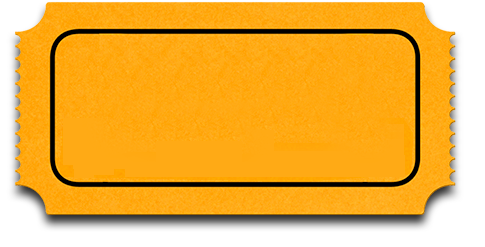
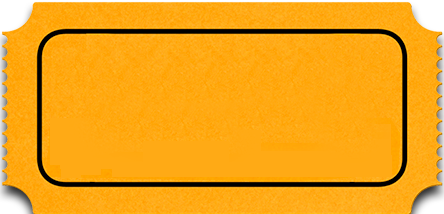
created styles for Card comp

diff --git a/src/components/Friends/Friends.js b/src/components/Friends/Friends.js
@@ -14,7 +14,7 @@ class Friends extends Component {
   }
 
   componentDidMount() {
-    axios.get(`/api/friendspost/recent/${this.props.user_id}`).then(res => {
+    axios.get(`/api/friendspost/${this.props.user_id}`).then(res => {
       this.setState({
         friends: res.data
       });
@@ -28,21 +28,19 @@ class Friends extends Component {
           <h3>Friends</h3>
           <div className="card">
             {this.state.friends.map(friend => (
-              <Link to={`/blog/${friend.post_id}`}>
-                <Card
-                  className="card"
-                  name={friend.name}
-                  post_id={friend.post_id}
-                  key={friend.post_id}
-                  user_id={friend.user_id}
-                  text={friend.text}
-                  posterurl={friend.posterurl}
-                  title={friend.title}
-                  blogtitle={friend.blogtitle}
-                  avatarurl={friend.avatarurl}
-                  rating={friend.rating}
-                />
-              </Link>
+              <Card
+                className="card"
+                name={friend.name}
+                post_id={friend.post_id}
+                key={friend.post_id}
+                user_id={friend.user_id}
+                text={friend.text}
+                posterurl={friend.posterurl}
+                title={friend.title}
+                blogtitle={friend.blogtitle}
+                avatarurl={friend.avatarurl}
+                rating={friend.rating}
+              />
             ))}
           </div>
         </div>
@@ -53,8 +51,11 @@ class Friends extends Component {
 
 let mapStatetoProps = reduxState => {
   return {
+    session: reduxState.authReducer,
     user_id: reduxState.authReducer.user_id
   };
 };
 
 export default connect(mapStatetoProps)(Friends);
+
+// export default Friends;

diff --git a/src/components/Dashboard/Dashboard.js b/src/components/Dashboard/Dashboard.js
@@ -4,6 +4,7 @@ import Friends from "../Friends/Friends";
 import Community from "../Community/Community";
 import Favorites from "../Favorites/Favorites";
 import YourBlogs from "../YourBlogs/YourBlogs";
+import axios from "axios";
 import { connect } from "react-redux";
 import "./Dashboard.scss";
 
@@ -11,7 +12,7 @@ class Dashboard extends Component {
   constructor(props) {
     super(props);
     this.state = {
-      tab: "friends"
+      tab: "yourBlogs"
     };
     this.tabChange = this.tabChange.bind(this);
   }
@@ -26,6 +27,12 @@ class Dashboard extends Component {
     return (
       <div className="grid-wrapper">
         <div className="tabs-container">
+          <button
+            className="tabBtns"
+            onClick={() => this.tabChange("yourBlogs")}
+          >
+            Your Blogs
+          </button>
           <button className="tabBtns" onClick={() => this.tabChange("friends")}>
             Friends
           </button>
@@ -41,18 +48,14 @@ class Dashboard extends Component {
           >
             Favorites
           </button>
-          <button
-            className="tabBtns"
-            onClick={() => this.tabChange("yourBlogs")}
-          >
-            Your Blogs
-          </button>
         </div>
         <div className="profile-container">
           <Profile user_id={this.props.user_id} />
         </div>
         <div className="tab-display">
-          {this.state.tab === "friends" ? <Friends /> : null}
+          {this.state.tab === "friends" ? (
+            <Friends user_id={this.props.user_id} />
+          ) : null}
           {this.state.tab === "community" ? <Community /> : null}
           {this.state.tab === "favorites" ? <Favorites /> : null}
           {this.state.tab === "yourBlogs" ? <YourBlogs /> : null}

diff --git a/src/components/Card/Card.js b/src/components/Card/Card.js
@@ -1,4 +1,5 @@
 import React, { Component } from "react";
+import { Link } from "react-router-dom";
 import { connect } from "react-redux";
 import "./Card.scss";
 
@@ -22,18 +23,20 @@ class Card extends Component {
     } = this.props;
     return (
       <div className="card-wrapper">
-        <div className="poster">
-          <img src={posterurl} />
-        </div>
-        <div>
-          <div className="blog-info">
-            <h5>{blogtitle}</h5>
-            <h6>by {name}</h6>
+        <Link to={`/blog/${this.props.post_id}`}>
+          <div className="poster">
+            <img src={posterurl} />
           </div>
-          <div className="blog-post">
-            <p>{text}</p>
+          <div className="info-wrapper">
+            <div className="blog-info">
+              <h5>{blogtitle}</h5>
+              <h6>by {name}</h6>
+            </div>
+            <div className="blog-post">
+              <p>{text}</p>
+            </div>
           </div>
-        </div>
+        </Link>
       </div>
     );
   }

diff --git a/src/components/Card/Card.scss b/src/components/Card/Card.scss
@@ -1,18 +1,51 @@
+@import '../../App.scss';
+
 .card-wrapper {
-  display: flex;
-  border: 1px solid green;
-  height: 170px;
- width: 300px;
+
+
+  height: 150px;
+  width: 300px;
   justify-content: space-between;
   overflow: hidden;
   margin: 10px;
-  // overflow: scroll;
+  background-image: url('../../img/ticket.png');
+  background-size: contain;
+  background-repeat: no-repeat;
+  display: flex;
+  flex-wrap: wrap;
 
-  p {
-    font-size: 0.7em;
+  a {
+    font-size: 20px;
+    font-weight: bold;
+    background: rgba(0, 0, 0, 0.6);
+    text-decoration: none;
+    color: $textColor;
+    width: 100%;
+    display: flex;
+    justify-content: space-between;
+
+    .poster {
+      padding: 5px;
+      width: 33%;
+
+      img {
+        width: 100%;
+      }
+    }
+
+    .info-wrapper {
+      display: flex;
+      flex-direction: column;
+
+      width: 66%;
+
+      .blog-info {}
+
+      .blog-post {}
+    }
   }
 
-  img {
-    height: 200px
-  }
+  // flex-grow: 1; // overflow: scroll;
+
+
 }

diff --git a/src/components/Friends/Friends.scss b/src/components/Friends/Friends.scss
@@ -6,6 +6,7 @@
 
 .friends-wrapper {
  height: 100vh;
+ width: 100vw;
  display: flex;
  flex-direction: row;
  flex-wrap: wrap;
@@ -14,9 +15,13 @@
 }
 
 .card {
- display: flex;
- flex-wrap: wrap;
- width: 33%;
- flex-grow: 1;
+
+ // display: flex;
+ // flex-wrap: wrap;
+ // width: 33%;
+ // flex-grow: 1;
+ a {
+  text-decoration: none;
+ }
 
 }
